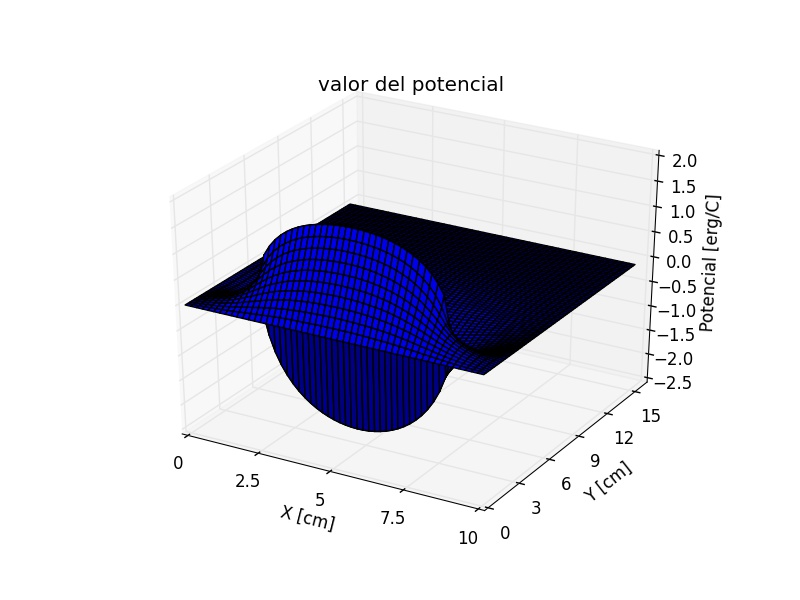
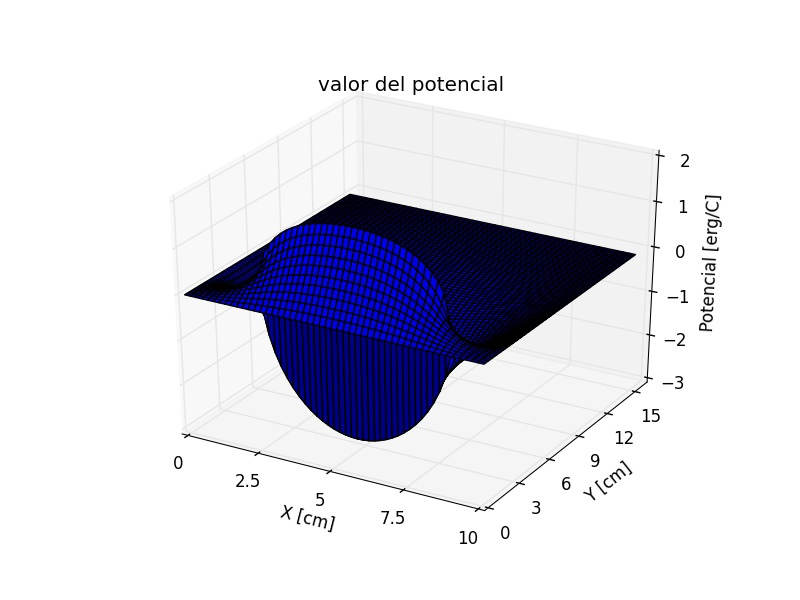
varios w

diff --git a/distintos_w.py b/distintos_w.py
@@ -10,7 +10,7 @@ ANCHO = 10
 ALTO = 15
 H = 0.2
 DERIVADA = 1  # 1E-3 * 3
-CARGA_TOTAL = 500
+CARGA_TOTAL = 1
 
 
 def crear_caja(ancho, alto, h):
@@ -198,10 +198,10 @@ def mostrar(i, f_caja, caja, titulo):
     ax.set_ylabel("Y [cm]")
     if titulo == "valor del potencial":
         ax.set_zlabel("Potencial [erg/C]")
-        fig.savefig("potencial2.jpg")
+        fig.savefig("potencial1.jpg")
     else:
         ax.set_zlabel("Carga [erg/C]")
-        fig.savefig("distr_carga2.jpg")
+        fig.savefig("distr_carga1.jpg")
 
     fig2 = plt.figure(2 + 2 * (i - 1))
     fig2.clf()
@@ -219,10 +219,10 @@ def mostrar(i, f_caja, caja, titulo):
 
     if titulo == "valor del potencial":
         cbar.set_label("Potencial [erg/C]")
-        fig2.savefig("potencial3.jpg")
+        fig2.savefig("potencial.jpg")
     else:
         cbar.set_label("Carga [C]")
-        fig2.savefig("distr_carga3.jpg")
+        fig2.savefig("distr_carga.jpg")
 
     if titulo == "valor del potencial":
         fig3 = plt.figure(3 + 2 * (i - 1))
@@ -240,7 +240,7 @@ def mostrar(i, f_caja, caja, titulo):
         for i in range(0, 75, 1):
             z[i] = caja[25, i]
         ax3.plot(x, z)
-        fig3.savefig("corte_trans2.jpg")
+        fig3.savefig("corte_trans.jpg")
 
 
 def es_horizontal(ini, fin):
@@ -321,28 +321,28 @@ def poner_carga(caja, coordenadas, total):
 
 
 # main
-w = 1.8
-numero_pasos = np.array([ANCHO/H + 1, ALTO/H + 1])
-coordenadas_carga = armar_letra()
+for w in np.linspace(1, 2, 5):
 
-caja_carga = crear_caja(ANCHO, ALTO, H)
-caja_potencial = crear_caja(ANCHO, ALTO, H)
-caja_potencial_next = crear_caja(ANCHO, ALTO, H)
+    numero_pasos = np.array([ANCHO/H + 1, ALTO/H + 1])
+    coordenadas_carga = armar_letra()
 
-caja_carga = poner_carga(caja_carga, coordenadas_carga, CARGA_TOTAL)
+    caja_carga = crear_caja(ANCHO, ALTO, H)
+    caja_potencial = crear_caja(ANCHO, ALTO, H)
+    caja_potencial_next = crear_caja(ANCHO, ALTO, H)
 
-caja_potencial = poner_condiciones_borde(caja_potencial)
+    caja_carga = poner_carga(caja_carga, coordenadas_carga, CARGA_TOTAL)
 
-iterar(caja_potencial, caja_potencial_next, caja_carga, numero_pasos, H, w)
-contador = 1
-tolerancia = 1e-7
-while (contador < 1000 and not convergio(caja_potencial, caja_potencial_next,
-                                         tolerancia)):
-    caja_potencial = caja_potencial_next.copy()
+    caja_potencial = poner_condiciones_borde(caja_potencial)
 
     iterar(caja_potencial, caja_potencial_next, caja_carga, numero_pasos, H, w)
-    contador += 1
-print("numero iteraciones: "+str(contador))
-mostrar(1, f_caja_carga, caja_carga, "distribucion carga")
-mostrar(2, f_caja_potencial_next, caja_potencial_next, "valor del potencial")
-plt.show()
+    contador = 1
+    tolerancia = 1e-2
+    while (contador < 1000 and not convergio(caja_potencial,
+                                             caja_potencial_next, tolerancia)):
+        caja_potencial = caja_potencial_next.copy()
+
+        iterar(caja_potencial, caja_potencial_next,
+               caja_carga, numero_pasos, H, w)
+        contador += 1
+    print("w = "+str(w))
+    print("numero iteraciones: "+str(contador))

diff --git a/potencial_discontinuo.py b/potencial_discontinuo.py
@@ -86,19 +86,19 @@ def iterar(caja, caja_next, caja_carga, numero_pasos, h, w=1):
         for j in range(int(rango_y[0]) + 1, int(rango_y[1])):
             if (esta_bajo_linea(i, j)):
                 iteracion_bajo_linea(i, j, caja, caja_next, caja_carga,
-                                     numero_pasos, h, w=1)
+                                     numero_pasos, h, w)
             elif esta_en_linea(i, j):
                 iteracion_linea(i, j, caja, caja_next, caja_carga,
-                                numero_pasos, h, w=1)
+                                numero_pasos, h, w)
             elif esta_sobre_linea(i, j):
                 iteracion_sobre_linea(i, j, caja, caja_next, caja_carga,
-                                      numero_pasos, h, w=1)
+                                      numero_pasos, h, w)
             elif (esta_en_letra(i, j)):
                 iteracion_letra(i, j, caja, caja_next, caja_carga,
-                                numero_pasos, h, w=1)
+                                numero_pasos, h, w)
             else:
                 iteracion_resto(i, j, caja, caja_next, caja_carga,
-                                numero_pasos, h, w=1)
+                                numero_pasos, h, w)
 
 
 def iteracion_resto(i, j, caja, caja_next, caja_carga, numero_pasos, h, w=1):
@@ -335,9 +335,9 @@ caja_potencial = poner_condiciones_borde(caja_potencial)
 
 iterar(caja_potencial, caja_potencial_next, caja_carga, numero_pasos, H, w)
 contador = 1
-tolerancia = 1e-1
-while (contador < 500 and not convergio(caja_potencial, caja_potencial_next,
-                                        tolerancia)):
+tolerancia = 1e-7
+while (contador < 1000 and not convergio(caja_potencial, caja_potencial_next,
+                                         tolerancia)):
     caja_potencial = caja_potencial_next.copy()
 
     iterar(caja_potencial, caja_potencial_next, caja_carga, numero_pasos, H, w)
